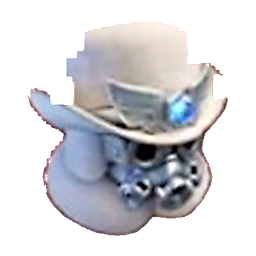
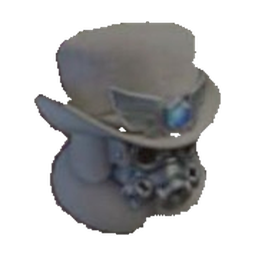
Replace P4/P5 gear with faithful transparent screenshot cutouts

diff --git a/src/app.js b/src/app.js
@@ -22,7 +22,7 @@ D.gearLevels=GEAR_VISUAL_LEVELS.map(level=>level.label);
 const state={from:D.furnace.findIndex(x=>x.id==="FC6"),to:D.furnace.findIndex(x=>x.id==="FC8"),scope:"furnace",gear:{},selectedGear:null,troop:"infantry",techStart:"steel",techTarget:"helios",t12:[0,0,0,0]};
 function gearSkin(g){return `<img class="gear-skin-p6" src="assets/generated/gear-p6/${g.id}.png" alt="">`}
 function gearVisualData(level){return GEAR_VISUAL_LEVELS[Math.max(0,Math.min(GEAR_VISUAL_LEVELS.length-1,level))]}
-function gearLevelSkin(g,level){const visual=gearVisualData(level),slot=g.id==='helmet'?'headgear':g.id;return `<img class="gear-level-skin gear-visual-${visual.skin}" src="assets/visuals/gear-levels/${visual.skin}/${slot}.png?v=5" alt="">`}
+function gearLevelSkin(g,level){const visual=gearVisualData(level),slot=g.id==='helmet'?'headgear':g.id;return `<img class="gear-level-skin gear-visual-${visual.skin}" src="assets/visuals/gear-levels/${visual.skin}/${slot}.png?v=${['p4','p5-p6'].includes(visual.skin)?'20261006-p4-p5-cutouts':'5'}" alt="">`}
 const $=(s,p=document)=>p.querySelector(s),$$=(s,p=document)=>[...p.querySelectorAll(s)],fmt=n=>new Intl.NumberFormat("fr-FR",{maximumFractionDigits:1}).format(n);
 function go(id){$$('.view').forEach(v=>v.classList.toggle('active',v.id===id));scrollTo({top:0,behavior:'smooth'})}$$('[data-go]').forEach(b=>b.onclick=()=>go(b.dataset.go));
 function sumSteps(arr,a,b){const out={fc:0,rfc:0,food:0,wood:0,coal:0,iron:0,time:0};arr.slice(a+1,b+1).forEach(x=>Object.keys(out).forEach(k=>out[k]+=x[k]||0));return out}

diff --git a/index.html b/index.html
@@ -80,6 +80,6 @@
   <div hidden><div id="gearLeft"></div><div id="gearRight"></div></div>
   <dialog id="gearDialog"><form method="dialog"><button class="dialog-close" value="cancel" aria-label="Fermer">×</button><p class="eyebrow" id="dialogType"></p><h2 id="dialogTitle"></h2><p class="profile-dialog-note">Renseigne uniquement l’état actuel de ton Chef.</p><div class="dialog-compare"><label class="current-setting"><small>ÉQUIPEMENT ACTUEL</small><span class="gear-preview" id="gearFromPreview"></span><select id="gearFrom"></select></label><span class="dialog-arrow">→</span><label class="target-setting"><small>OBJECTIF</small><span class="gear-preview target" id="gearToPreview"></span><select id="gearTo"></select></label></div><h3>3 talismans actuels</h3><div id="charmInputs" class="charm-inputs"></div><button class="primary" value="save" id="saveGear">Appliquer</button></form></dialog>
   <dialog id="levelPicker"><form method="dialog"><button class="dialog-close" value="cancel" aria-label="Fermer">×</button><p class="eyebrow" id="pickerEyebrow">NIVEAU</p><h2 id="pickerTitle">Choisir un niveau</h2><div class="level-picker-grid" id="levelPickerGrid"></div></form></dialog>
-  <script src="src/data.js"></script><script src="src/app.js?v=20261005-picker-scroll"></script>
+  <script src="src/data.js"></script><script src="src/app.js?v=20261006-p4-p5-cutouts"></script>
 </body>
 </html>
